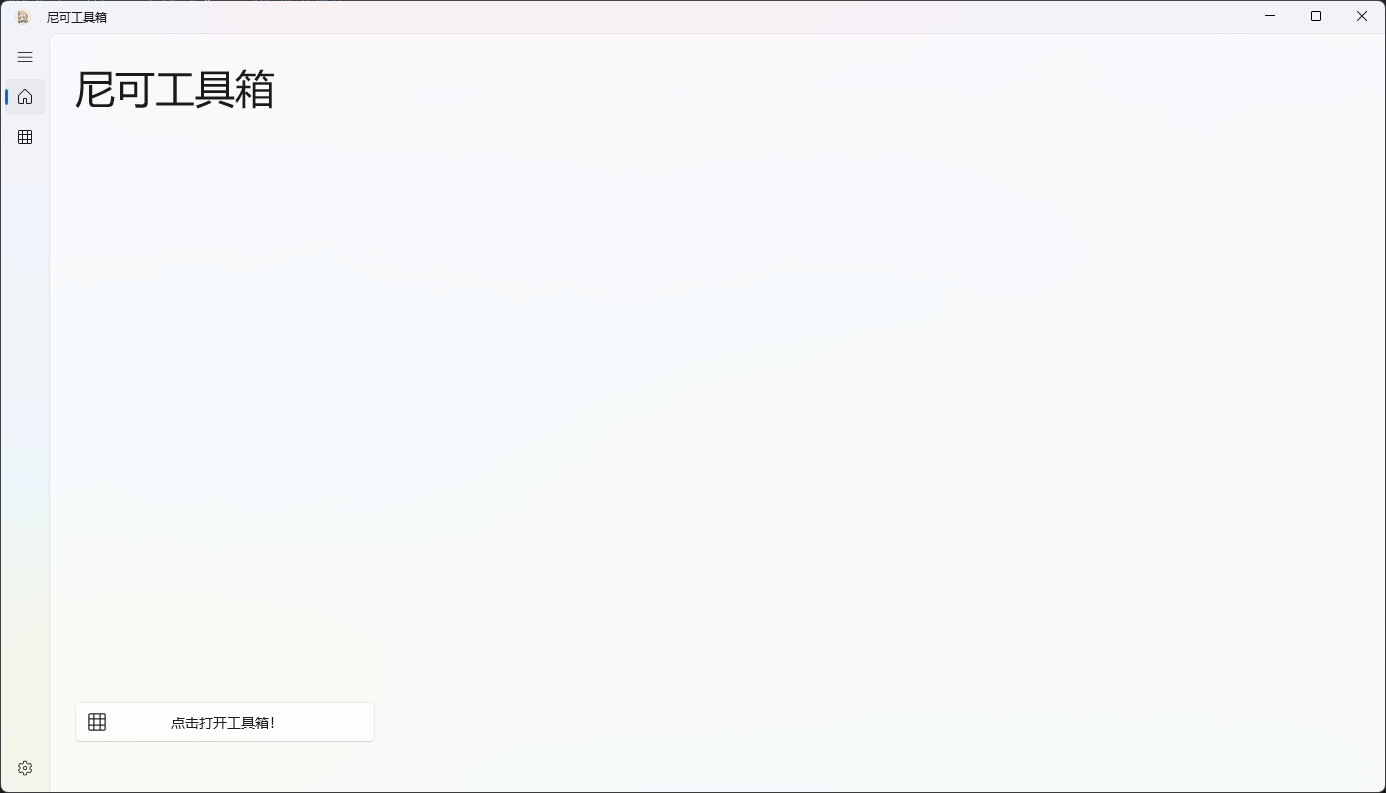
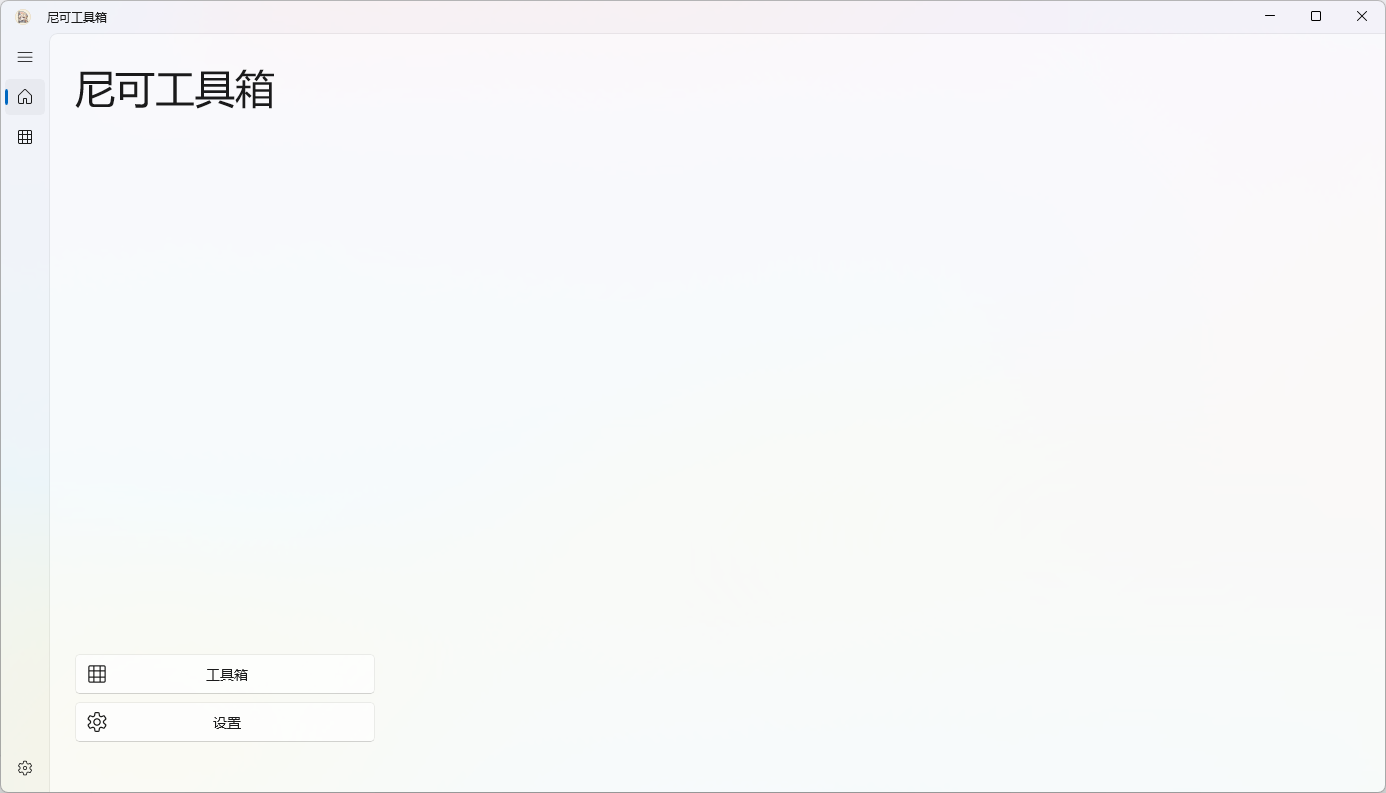
更新了主页的跳转按钮，更新了关于页面，以及重新包含WinAPPSDK

diff --git a/Pages/SettingsPage.xaml b/Pages/SettingsPage.xaml
@@ -65,38 +65,18 @@
         <Grid x:Name="grid1" Margin="0,60,0,0">
             <ScrollViewer>
                 <Grid>
-                    <Border VerticalAlignment="Top" HorizontalAlignment="Left" Margin="25,10,0,0" Padding="8" CornerRadius="8">
+                    <Border VerticalAlignment="Center" HorizontalAlignment="Center" Margin="0,0,0,250" Padding="8" CornerRadius="8">
                         <StackPanel Orientation="Vertical" Spacing="8">
-                            <TextBlock Text="尼可工具箱" FontSize="40" HorizontalAlignment="Left" TextWrapping="Wrap"/>
-                            <TextBlock Text="一个原神工具箱，集成了一些在线工具，基于 WinUI 3 制作" FontSize="30" HorizontalAlignment="Left" TextWrapping="Wrap"/>
+                            <TextBlock Text="尼可工具箱" FontSize="30" HorizontalAlignment="Center" TextWrapping="Wrap"/>
+                            <TextBlock Text="一个原神工具箱，集成了一些在线工具，基于 WinUI 3 制作" FontSize="20" HorizontalAlignment="Center" TextWrapping="Wrap"/>
                         </StackPanel>
                     </Border>
-                    <GridView VerticalAlignment="Top" HorizontalAlignment="Right" Margin="0,300,25,0" SelectionMode="None">
-                        <Button Click="GitHub" Width="250" Height="50">
-                            <Grid Width="230" Height="30">
-                                <FontIcon Glyph="&#xE8F1;" VerticalAlignment="Center" HorizontalAlignment="Left"/>
-                                <TextBlock Text="GitHub主页" VerticalAlignment="Center" HorizontalAlignment="Center"/>
-                            </Grid>
-                        </Button>
-                        <Button Click="Issue" Width="250" Height="50">
-                            <Grid Width="230" Height="30">
-                                <FontIcon Glyph="&#xE7BA;" VerticalAlignment="Center" HorizontalAlignment="Left"/>
-                                <TextBlock Text="报告问题" VerticalAlignment="Center" HorizontalAlignment="Center"/>
-                            </Grid>
-                        </Button>
-                        <Button Click="Contributors" Width="250" Height="50">
-                            <Grid Width="230" Height="30">
-                                <FontIcon Glyph="&#xE716;" VerticalAlignment="Center" HorizontalAlignment="Left"/>
-                                <TextBlock Text="贡献者" VerticalAlignment="Center" HorizontalAlignment="Center"/>
-                            </Grid>
-                        </Button>
-                        <Button Click="Website" Width="250" Height="50">
-                            <Grid Width="230" Height="30">
-                                <FontIcon Glyph="&#xE774;" VerticalAlignment="Center" HorizontalAlignment="Left"/>
-                                <TextBlock Text="官方网站" VerticalAlignment="Center" HorizontalAlignment="Center"/>
-                            </Grid>
-                        </Button>
-                    </GridView>
+                    <StackPanel Orientation="Vertical" Spacing="8" HorizontalAlignment="Center" VerticalAlignment="Center" Margin="0,50,0,0">
+                        <Button Click="GitHub" Content="GitHub" HorizontalAlignment="Center" Padding="10" Width="100"/>
+                        <Button Click="Issue" Content="报告问题" HorizontalAlignment="Center" Padding="10" Width="100"/>
+                        <Button Click="Contributors" Content="贡献者" HorizontalAlignment="Center" Padding="10" Width="100"/>
+                        <Button Click="Website" Content="官方网站" HorizontalAlignment="Center" Padding="10" Width="100"/>
+                    </StackPanel>
                 </Grid>
             </ScrollViewer>
         </Grid>

diff --git a/Pages/HomePage.xaml b/Pages/HomePage.xaml
@@ -14,7 +14,13 @@
             <Button Click="WebTools" Width="300" Height="40">
                 <Grid Width="280">
                     <FontIcon Glyph="&#xE80A;" VerticalAlignment="Center" HorizontalAlignment="Left"/>
-                    <TextBlock Text="点击打开工具箱！" VerticalAlignment="Center" HorizontalAlignment="Center"/>
+                    <TextBlock Text="工具箱" VerticalAlignment="Center" HorizontalAlignment="Center"/>
+                </Grid>
+            </Button>
+            <Button Click="Settings" Width="300" Height="40">
+                <Grid Width="280">
+                    <FontIcon Glyph="&#xE713;" VerticalAlignment="Center" HorizontalAlignment="Left"/>
+                    <TextBlock Text="设置" VerticalAlignment="Center" HorizontalAlignment="Center"/>
                 </Grid>
             </Button>
         </StackPanel>

diff --git a/MainWindow.xaml.cs b/MainWindow.xaml.cs
@@ -70,9 +70,7 @@ namespace NicoleToolbox
             }
         }
 
-        /// <summary>
-        /// 菜单点击导航
-        /// </summary>
+        // 菜单点击导航
         private void Nav_ItemInvoked(NavigationView sender, NavigationViewItemInvokedEventArgs args)
         {
             if (args?.InvokedItemContainer is NavigationViewItem item && item.Tag is string tag)
@@ -93,35 +91,50 @@ namespace NicoleToolbox
             }
         }
 
-        /// <summary>
-        /// 页面导航完成后 → 自动选中对应菜单
-        /// </summary>
+        // 页面导航完成后 → 自动选中对应菜单
         private void ContentFrame_Navigated(object sender, NavigationEventArgs e)
         {
             if (Nav == null || ContentFrame == null) return;
 
-            // 获取当前显示的页面类型
-            System.Type currentPageType = e.SourcePageType;
+            // 1. 获取当前页面的 Type
+            var currentPageType = e.SourcePageType;
+            string? targetTag = null;
 
-            // 根据页面类型匹配菜单项
-            foreach (var menuItem in Nav.MenuItems)
+            // 2. 根据 Type 获取对应的 Tag 字符串
+            if (currentPageType == typeof(HomePage))
             {
-                if (menuItem is NavigationViewItem item && item.Tag is string tag)
-                {
-                    // 页面类型与 Tag 匹配 → 选中该项
-                    bool isMatch = currentPageType switch
-                    {
-                        System.Type t when t == typeof(HomePage) => tag == "Home",
-                        System.Type t when t == typeof(WebToolsPage) => tag == "WebTools",
-                        System.Type t when t == typeof(SettingsPage) => tag == "Settings",
-                        _ => false
-                    };
+                targetTag = "Home";
+            }
+            else if (currentPageType == typeof(WebToolsPage))
+            {
+                targetTag = "WebTools";
+            }
+            else if (currentPageType == typeof(SettingsPage))
+            {
+                targetTag = "Settings";
+            }
 
-                    if (isMatch)
+            // 3. 如果找到了 Tag，尝试高亮菜单
+            if (targetTag != null)
+            {
+                bool found = false;
+
+                // [步骤 A] 先在普通的 MenuItems 里找
+                foreach (var menuItem in Nav.MenuItems)
+                {
+                    if (menuItem is NavigationViewItem item && item.Tag is string tag && tag == targetTag)
                     {
                         Nav.SelectedItem = item;
+                        found = true;
                         break;
                     }
+                }
+
+                // [步骤 B] 如果在普通菜单没找到，并且目标就是 Settings，则选中自带的 SettingsItem
+                if (!found && targetTag == "Settings")
+                {
+                    // 直接选中系统自带的设置项
+                    Nav.SelectedItem = Nav.SettingsItem;
                 }
             }
         }

diff --git a/Pages/HomePage.xaml.cs b/Pages/HomePage.xaml.cs
@@ -10,7 +10,11 @@ using System.Collections.Generic;
 using System.Diagnostics;
 using System.IO;
 using System.Linq;
+using System.Net.Http;
 using System.Runtime.InteropServices.WindowsRuntime;
+using System.Text.Json;
+using System.Text.Json.Serialization;
+using System.Threading.Tasks;
 using Windows.Foundation;
 using Windows.Foundation.Collections;
 using Windows.Storage;
@@ -24,6 +28,7 @@ namespace NicoleToolbox.Pages
     /// <summary>
     /// An empty page that can be used on its own or navigated to within a Frame.
     /// </summary>
+
     public sealed partial class HomePage : Page
     {
         public HomePage()
@@ -34,6 +39,11 @@ namespace NicoleToolbox.Pages
         private void WebTools(object sender, RoutedEventArgs e)
         {
             Frame.Navigate(typeof(WebToolsPage));
+        }
+
+        private void Settings(object sender, RoutedEventArgs e)
+        {
+            Frame.Navigate(typeof(SettingsPage));
         }
     }
 }

diff --git a/README.md b/README.md
@@ -11,11 +11,7 @@
 
 使用前请先下载并安装 .NET 10.0！  
 [下载 .NET 10.0](https://dotnet.microsoft.com/zh-cn/download/dotnet/10.0)  
-SDK 和 .NET 桌面运行时均可运行本应用！请自行选择！  
-
-然后下载并安装 Windows APP SDK 2.2.0！  
-[下载 Windows APP SDK](https://learn.microsoft.com/zh-cn/windows/apps/windows-app-sdk/downloads)  
-选择稳定版中的 Windows APP SDK 2.2.0，下载并安装即可！  
+SDK 和 .NET 桌面运行时均可运行本应用！请自行选择！   
 
 # 应用画廊
 主页  